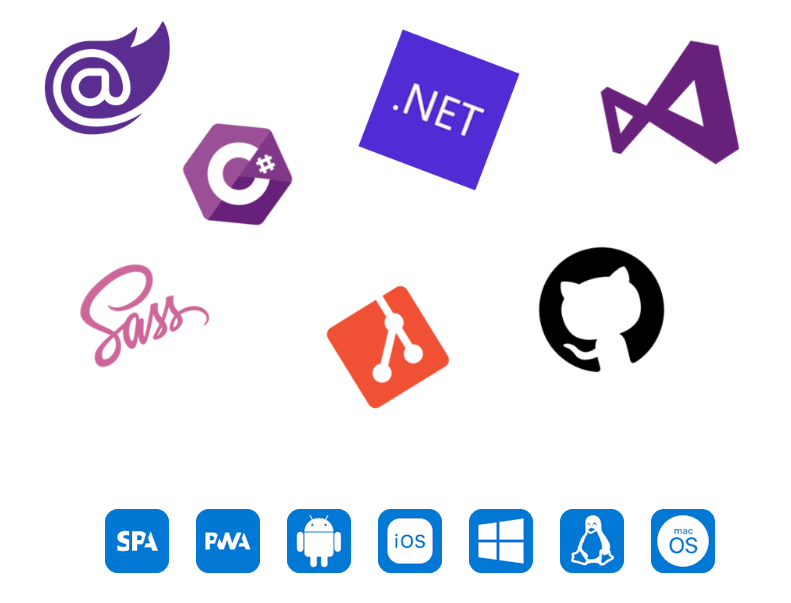
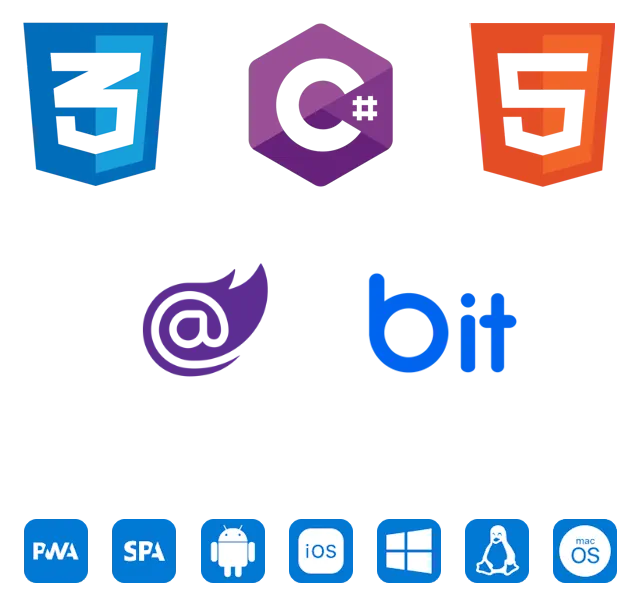
final fix

diff --git a/src/Websites/Platform/Bit.Websites.Platform/Web/Pages/HomePage.razor.scss b/src/Websites/Platform/Bit.Websites.Platform/Web/Pages/HomePage.razor.scss
@@ -87,6 +87,61 @@
     }
 }
 
+.intro-section {
+    padding: 10rem 0;
+    background-color: $bit-color-background-secondary;
+}
+
+.tech-section {
+    padding: 10rem 0;
+    text-align: center;
+
+    .tech-list {
+        width: 100%;
+        display: flex;
+        flex-flow: row wrap;
+        align-items: center;
+        justify-content: center;
+    }
+
+    .tech-item {
+        width: rem(70px);
+        height: rem(70px);
+        margin: rem(20px);
+        background-size: contain;
+        background-position: center;
+        background-repeat: no-repeat;
+    }
+
+    .blazor-item {
+        background-image: url('/images/home/tech/blazor-logo.webp');
+    }
+
+    .csharp-item {
+        background-image: url('/images/home/tech/csharp-logo.webp');
+    }
+
+    .dotnet-item {
+        background-image: url('/images/home/tech/dotnet-logo.webp');
+    }
+
+    .sass-item {
+        background-image: url('/images/home/tech/sass-logo.webp');
+    }
+
+    .vs-item {
+        background-image: url('/images/home/tech/visual-studio-logo.webp');
+    }
+
+    .git-item {
+        background-image: url('/images/home/tech/git-logo.webp');
+    }
+
+    .github-item {
+        background-image: url('/images/home/tech/github-logo.webp');
+    }
+}
+
 .components-section {
     background-color: $bit-color-background-secondary;
 
@@ -281,7 +336,6 @@
     .template-img {
         top: 0;
         width: 100%;
-        height: 100%;
         position: absolute;
         border-radius: rem(6px);
     }
@@ -387,5 +441,11 @@
         width: rem(64px);
         border-radius: 50%;
         margin-right: rem(10px);
+    }
+}
+
+::deep {
+    .blue-txt {
+        color: $bit-color-primary-main;
     }
 }

diff --git a/src/Websites/Platform/Bit.Websites.Platform/Web/Shared/Header.razor.scss b/src/Websites/Platform/Bit.Websites.Platform/Web/Shared/Header.razor.scss
@@ -276,12 +276,28 @@
         transition: background-color 150ms cubic-bezier(.4,0,.2,1) 0ms;
 
         &:hover {
-            background-color: rgba(0, 0, 0, 0.06);
+            background-color: $bit-color-action-hover-background-primary;
+        }
 
-            .menu-item-icon {
-                border-color: $Gray4;
+        &.active {
+            .item-title {
+                color: $bit-color-primary-main;
             }
         }
+    }
+
+    .item-title {
+        font-weight: 600;
+        white-space: nowrap;
+        font-size: rem(16px);
+        color: $bit-color-foreground-primary;
+    }
+
+    .item-desc {
+        font-weight: 600;
+        white-space: nowrap;
+        font-size: rem(14px);
+        color: $bit-color-foreground-secondary;
     }
 
     .menu-item--disabled {
@@ -343,20 +359,6 @@
     .support-item {
         background-image: url('/images/header/support-icon.webp');
         background-size: rem(22px);
-    }
-
-    .item-title {
-        font-weight: 600;
-        white-space: nowrap;
-        font-size: rem(16px);
-        color: $bit-color-primary-main;
-    }
-
-    .item-desc {
-        font-weight: 600;
-        white-space: nowrap;
-        font-size: rem(14px);
-        color: $bit-color-foreground-secondary;
     }
 }
 

diff --git a/src/Websites/Platform/Bit.Websites.Platform/Web/Shared/Footer.razor.scss b/src/Websites/Platform/Bit.Websites.Platform/Web/Shared/Footer.razor.scss
@@ -200,7 +200,7 @@ footer {
     background-image: url('/images/footer/github-icon.svg');
 
     &:hover {
-        background-color: #171515;
+        background-color: #333;
     }
 }
 

diff --git a/src/Websites/Platform/Bit.Websites.Platform/Web/Pages/AdminPanel/OverviewPage.razor.scss b/src/Websites/Platform/Bit.Websites.Platform/Web/Pages/AdminPanel/OverviewPage.razor.scss
@@ -49,7 +49,7 @@
 
 .image-container {
     position: relative;
-    padding: 55% 0 0 0;
+    padding: 50% 0 0 0;
     margin-bottom: 1rem;
 
     .template-img {

diff --git a/src/Websites/Platform/Bit.Websites.Platform/Web/Pages/TodoTemplate/OverviewPage.razor.scss b/src/Websites/Platform/Bit.Websites.Platform/Web/Pages/TodoTemplate/OverviewPage.razor.scss
@@ -45,7 +45,7 @@
 
 .image-container {
     position: relative;
-    padding: 55% 0 0 0;
+    padding: 50% 0 0 0;
     margin-bottom: 1rem;
 
     .template-img {

diff --git a/src/Websites/Platform/Bit.Websites.Platform/Web/Shared/NavMenu.razor.cs b/src/Websites/Platform/Bit.Websites.Platform/Web/Shared/NavMenu.razor.cs
@@ -14,23 +14,6 @@ namespace Bit.Websites.Platform.Web;
 public partial class NavMenu
 {
     private bool isNavOpen = false;
-    private readonly List<BitNavItem> TodoTemplateNavLinks = new()
-    {
-        new BitNavItem { Text = "Overview", Url = "/todo-template/overview"},
-        new BitNavItem { Text = "Development prerequisites", Url = "/todo-template/development-prerequisites"},
-        new BitNavItem { Text = "Create project", Url = "/todo-template/create-project"},
-        new BitNavItem { Text = "Database", Url = "/todo-template/database"},
-        new BitNavItem { Text = "Run", Url = "/todo-template/run"},
-        new BitNavItem { Text = "Hosting models", Url = "/todo-template/hosting-models"},
-        new BitNavItem { Text = "Deployment type", Url = "/todo-template/deployment-type"},
-        new BitNavItem { Text = "Settings", Url = "/todo-template/settings"},
-        new BitNavItem { Text = "Project structure", Url = "/todo-template/project-structure"},
-        new BitNavItem { Text = "Exception handling", Url = "/todo-template/exception-handling"},
-        new BitNavItem { Text = "Cache mechanism", Url = "/todo-template/cache-mechanism"},
-        new BitNavItem { Text = "Multilingualism", Url = "/todo-template/multilingualism"},
-        new BitNavItem { Text = "DevOps", Url = "/todo-template/devops"},
-        new BitNavItem { Text = "Contribute", Url = "/todo-template/contribute"}
-    };
 
     private readonly List<BitNavItem> AdminPanelNavLinks = new()
     {
@@ -48,6 +31,24 @@ public partial class NavMenu
         new BitNavItem { Text = "Multilingualism", Url = "/admin-panel/multilingualism"},
         new BitNavItem { Text = "DevOps", Url = "/admin-panel/devops"},
         new BitNavItem { Text = "Contribute", Url = "/admin-panel/contribute"}
+    };
+
+    private readonly List<BitNavItem> TodoTemplateNavLinks = new()
+    {
+        new BitNavItem { Text = "Overview", Url = "/todo-template/overview"},
+        new BitNavItem { Text = "Development prerequisites", Url = "/todo-template/development-prerequisites"},
+        new BitNavItem { Text = "Create project", Url = "/todo-template/create-project"},
+        new BitNavItem { Text = "Database", Url = "/todo-template/database"},
+        new BitNavItem { Text = "Run", Url = "/todo-template/run"},
+        new BitNavItem { Text = "Hosting models", Url = "/todo-template/hosting-models"},
+        new BitNavItem { Text = "Deployment type", Url = "/todo-template/deployment-type"},
+        new BitNavItem { Text = "Settings", Url = "/todo-template/settings"},
+        new BitNavItem { Text = "Project structure", Url = "/todo-template/project-structure"},
+        new BitNavItem { Text = "Exception handling", Url = "/todo-template/exception-handling"},
+        new BitNavItem { Text = "Cache mechanism", Url = "/todo-template/cache-mechanism"},
+        new BitNavItem { Text = "Multilingualism", Url = "/todo-template/multilingualism"},
+        new BitNavItem { Text = "DevOps", Url = "/todo-template/devops"},
+        new BitNavItem { Text = "Contribute", Url = "/todo-template/contribute"}
     };
 
     private List<BitNavItem> filteredNavLinks = default!;
